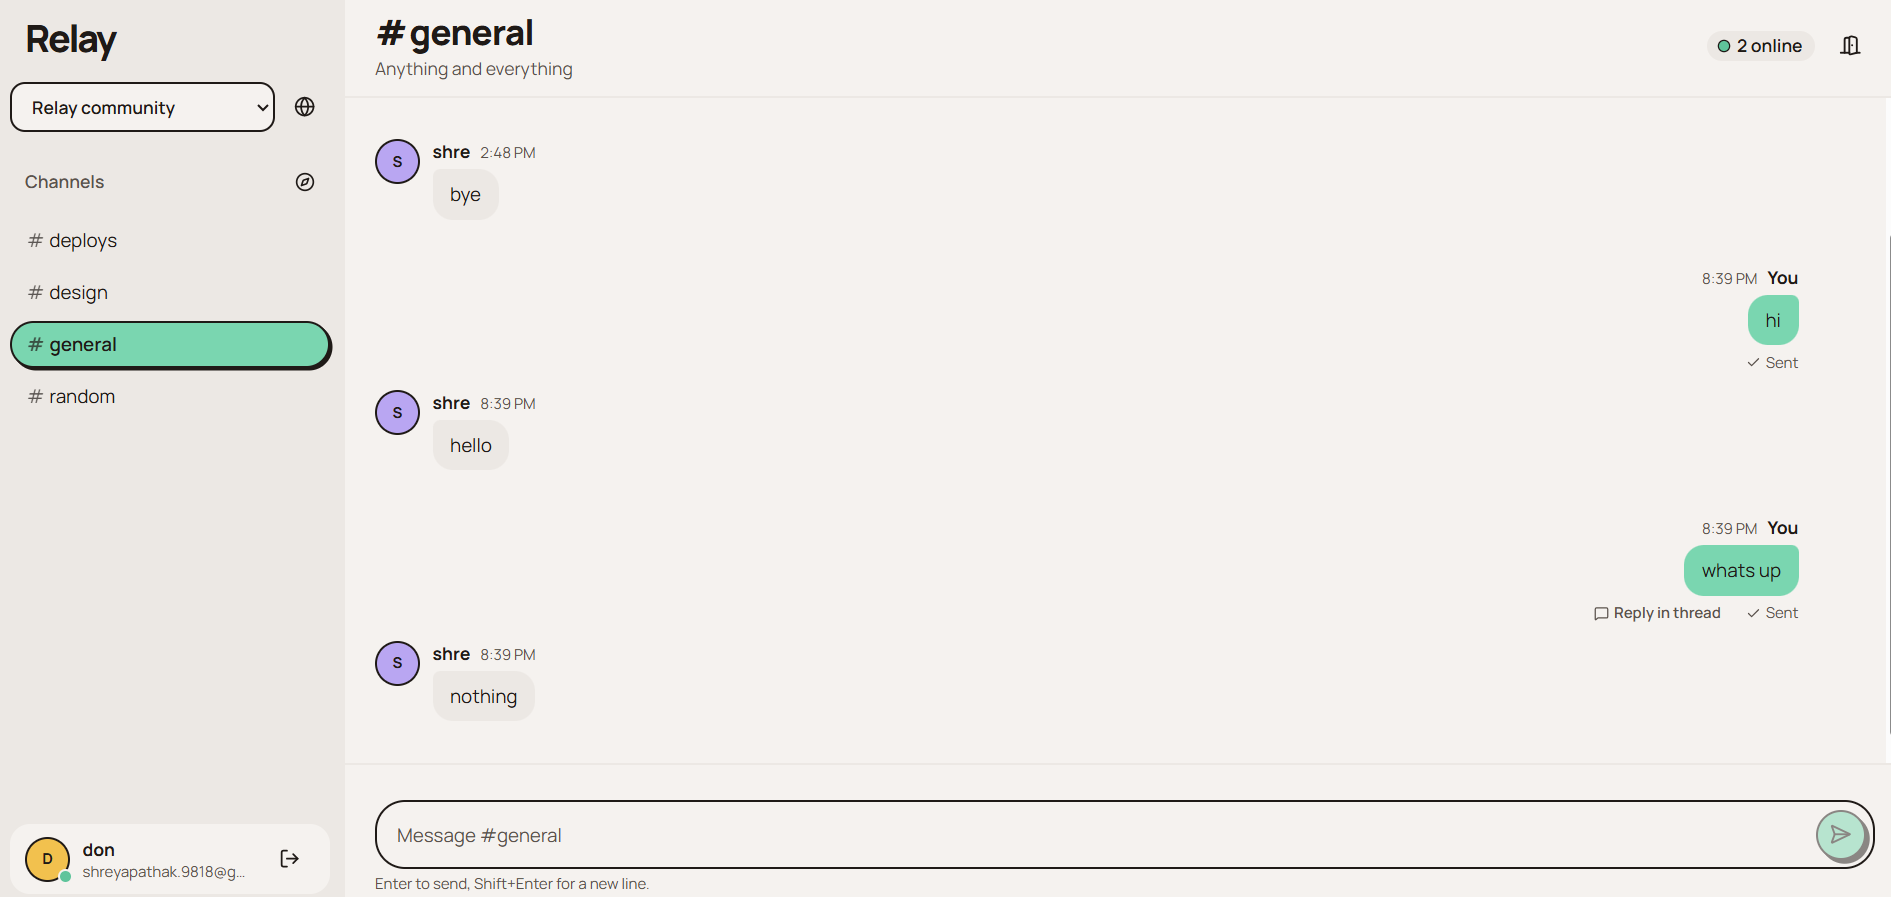
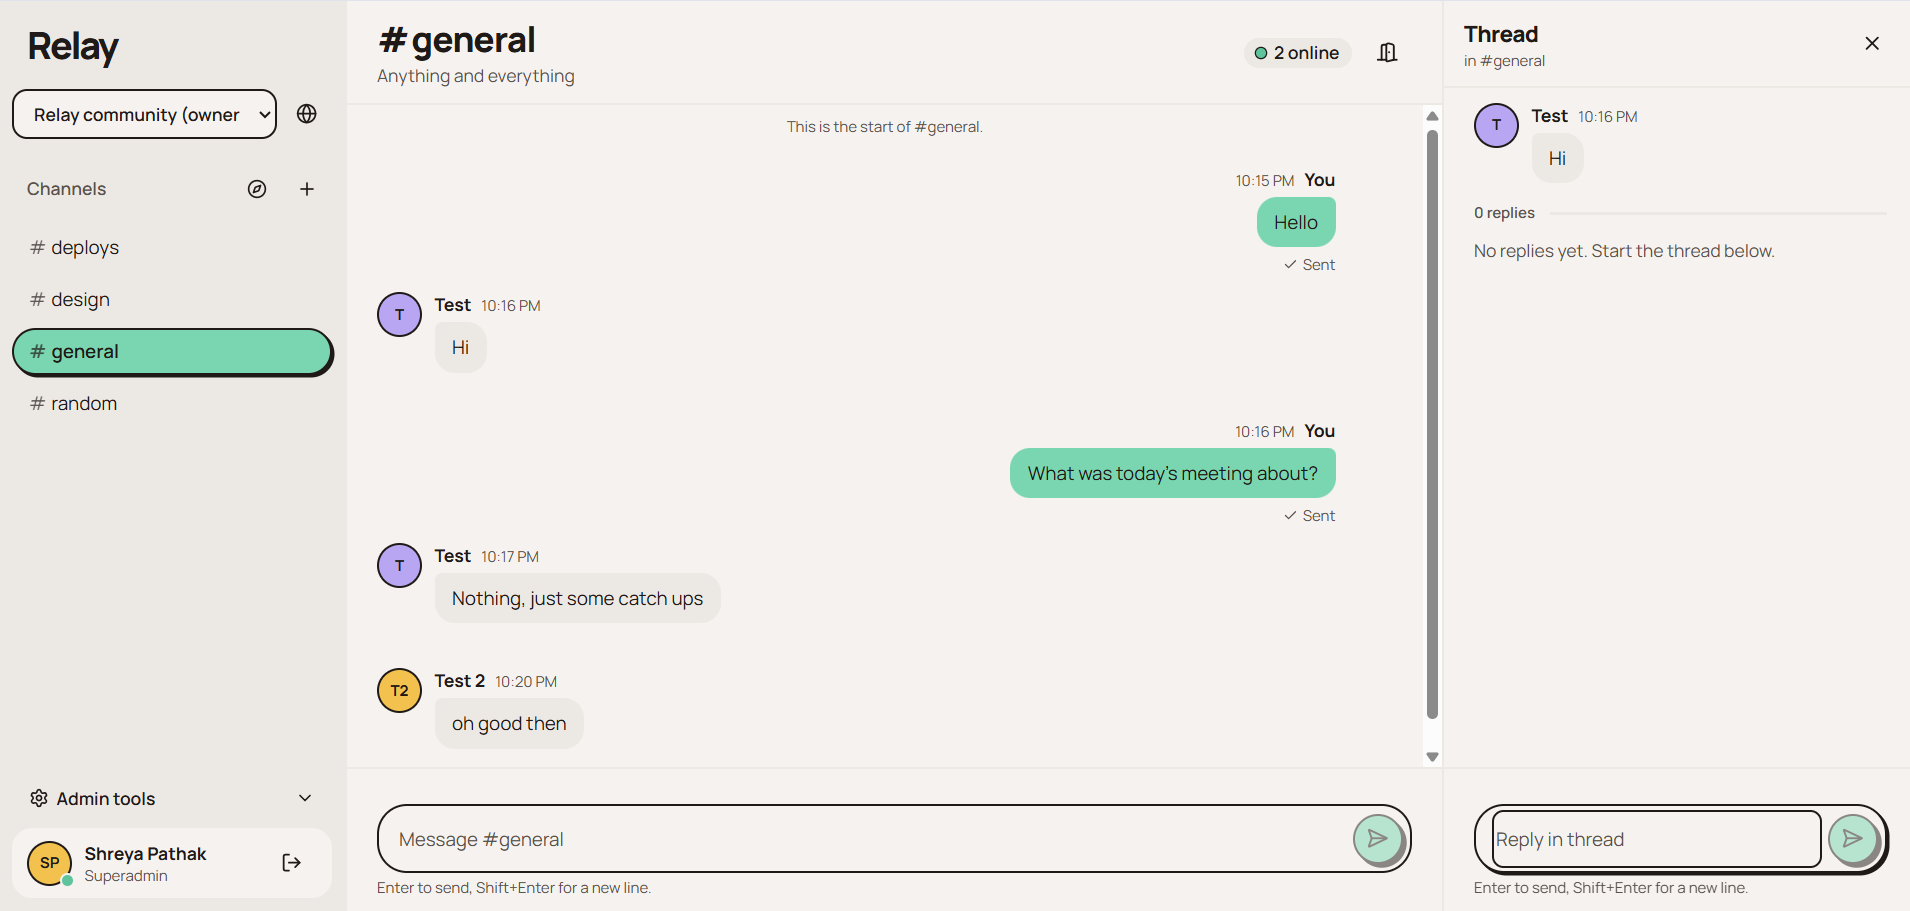
docs: enhance README, architecture, and deployment documentation; update testing instructions

diff --git a/README.md b/README.md
@@ -1,8 +1,9 @@
 # Relay
 
 A self-owned, real-time community chat app with channels, threads, presence, typing indicators,
-reliable delivery and recoverable connections. It's built to run as a personal project on Vercel
-(Hobby) with Neon Postgres and Upstash Redis.
+reliable delivery and recoverable connections.
+
+**Live site:** [getrelaychat.vercel.app](https://getrelaychat.vercel.app/)
 
 ![Relay chat showing the general channel, live messages, online members, and message composer](docs/images/relay-chat.png)
 
@@ -21,45 +22,85 @@ Requires Node 22+, pnpm 9, and Docker (or your own Postgres 16 and Redis).
 pnpm install
 docker compose up -d
 cp .env.example .env
-pnpm db:setup        # migrate + seed #general #design #deploys #random
 pnpm dev             # app http://localhost:5173  (API/WS proxied to :3001)
 ```
 
-`pnpm dev` applies pending database migrations and runs the idempotent seed before starting the servers.
-If database preparation fails, startup stops so the app cannot run against an outdated schema.
+`pnpm dev` applies pending database migrations and seeds the default channels (#general, #design,
+#deploys, #random) before starting the servers. If database preparation fails, startup stops so the
+app can't run against an outdated schema.
 
-Open the app in two browser windows, create two accounts, and chat.
+Open the app in two browser windows, create two accounts, and start chatting.
 
-New accounts can chat immediately in the default public community. Use **Discover communities**
-to join another public community without approval, and the community switcher to move between them.
-Private communities require an invitation. Each community has its own channels, owners and members.
+## Communities and roles
 
-The first account is the **Superadmin** and owns the default community. **Manage communities** lets
-the superadmin create public/private communities, assign or replace their owners, suspend communities,
-and suspend accounts across the platform. An assigned owner must already have an active account.
-Superadmin access does not automatically grant access to private community conversations.
+Relay is organised into **communities**. Each one has its own channels, owners and members. Communities
+are either **public** (anyone can join) or **private** (invitation only).
 
-Community owners use **Create channel**, **Invite people**, and **Members and channels**.
-The **Access** action on a channel adds or removes selected members, including for private channels.
-Blocking a member affects only that community; **Restore** returns their access to its default channels.
-Invitations require a private, single-use link and the matching signed-in email. New users can sign up
-from the link and then accept it. Links expire after seven days; share them manually because no email
-is sent. **New link** replaces a previous invitation link. Previously created pending invitations need
-a new link after the secure-invitation migration; existing memberships and message history are preserved.
+There are three kinds of account:
 
-Run `pnpm db:migrate` before using communities on an existing database. The migration preserves
-channels and history in **Relay community**, preserves its owners and community blocks, and activates
-pending accounts. The earliest existing owner becomes superadmin (or the oldest account if none exists).
-Default channels seed once, so deleting one persists across subsequent deployments.
+| Role | Who | What they can do |
+| --- | --- | --- |
+| **Member** | Everyone | Chat, join public communities, and browse and join channels |
+| **Community owner** | Assigned by the superadmin | Manage channels, members and invitations in their own community |
+| **Superadmin** | The first account created | Manage every community and account on the platform |
 
-The deployment remains Vercel Hobby + Neon Free + Upstash Free, with no new services or paid plans.
-Vercel Hobby is for personal, non-commercial use; free-tier usage limits still apply. See deployment docs.
+### Members
+
+New accounts can chat straight away in the default public community.
+
+- **Discover communities** (the globe icon next to the community switcher) lists public communities
+  you can join without approval.
+- The **community switcher** at the top of the sidebar moves you between communities you've joined.
+- **Browse channels** (the compass icon next to the "Channels" heading) lists the channels in the
+  current community.
+
+### Community owners
+
+Owners get **Create channel** (the **+** icon next to the "Channels" heading) and an **Admin tools**
+section at the bottom of the sidebar, which contains:
+
+- **Invite people:** create, revoke and refresh invitation links. See [Invitations](#invitations).
+- **Members and channels:** search and filter members, then:
+  - **Access** adds or removes people from a channel. Use it to choose who can see a private channel.
+  - **Block** removes a member from this community only. **Restore** gives them back access to the
+    community's default channels.
+  - **Delete** removes a channel along with all its messages and threads.
+
+### Superadmin
+
+The first account to sign up becomes the superadmin and owns the default community. Under
+**Admin tools → Manage communities**, the superadmin can:
+
+- Create public or private communities.
+- Assign or replace a community's owner. The new owner must already have an active account.
+- Suspend and restore communities.
+- Suspend and restore accounts across the whole platform.
+
+> Being superadmin does **not** grant access to conversations in private communities.
+
+### Invitations
+
+Private communities are joined by invitation:
+
+1. An owner creates an invitation for a specific email address in **Invite people**.
+2. The owner sends the link to that person themselves. Relay doesn't send email.
+3. The invited person opens the link while signed in with that email address. If they don't have an
+   account yet, they sign up from the link first and then accept the invitation.
+
+Each link works once and expires after **seven days**. **New link** creates a replacement and stops
+the old link from working.
+
+## Hosting costs
+
+Relay runs entirely on free tiers: Vercel Hobby, Neon Free and Upstash Free, with no extra
+services or paid plans. Vercel Hobby is for personal, non-commercial use, and free-tier usage limits
+still apply. See [Deployment](docs/DEPLOYMENT.md) for details.
 
 ## Scripts
 
 | Command | Does |
 | --- | --- |
-| `pnpm dev` | API/WebSocket server (watch) + Vite dev server |
+| `pnpm dev` | Migrate + seed, then API/WebSocket server (watch) + Vite dev server |
 | `pnpm build` | Build shared, server and web |
 | `pnpm lint` / `pnpm typecheck` | ESLint / TypeScript across the repo |
 | `pnpm test` | Unit tests (no services needed) |
@@ -86,25 +127,18 @@ if any are missing, the app shows a setup screen naming them (values are never s
 
 - [Architecture](docs/ARCHITECTURE.md): message flow, delivery semantics, reconnection, presence, data
   model, Redis budget.
-- [Deployment](docs/DEPLOYMENT.md): Vercel, Neon and Upstash setup, free-tier limits, and what's still
-  unverified.
+- [Deployment](docs/DEPLOYMENT.md): Vercel, Neon and Upstash setup, free-tier limits, and
+  post-deploy checks.
 - [Security](docs/SECURITY.md)
 - [Testing](docs/TESTING.md): how to run each suite and the recorded results.
 
 ## Known limitations
 
-- **Vercel deployment not yet tested end to end.** The `api/` contract matches Vercel's current docs.
-  Monorepo bundling, the REST rewrite and real latency still need a first deploy to confirm; see
-  `docs/DEPLOYMENT.md`.
 - **Connection lifetime:** Hobby closes every WebSocket within 300 s. Relay reconnects
   make-before-break and resyncs by sequence number, but every connection still churns every few
   minutes.
 - **Rate limits are per function instance,** not global. Use Vercel Firewall rules for global limits.
-- **Performance targets:** the brief's targets (p95 < 80 ms, 50k messages/min, 5,000+ users) are
-  unmeasured on Vercel, and p95 latency missed 80 ms in the local single-CPU test.
-- **Missing features:** no message editing or deletion, no file uploads, and no Storybook
-  (components live in `apps/web/src/components/ui`).
-- **Avatars:** new users get lavender or amber avatars only.
+- **Missing features:** no message editing or deletion, no file uploads, and no Storybook.
 
 ## License
 

diff --git a/docs/DEPLOYMENT.md b/docs/DEPLOYMENT.md
@@ -18,19 +18,20 @@ Sources: [Vercel WebSockets](https://vercel.com/docs/functions/websockets),
 **Not promised:** that the app stays free forever, or that no payment method will ever be requested.
 If Relay ever charges users or serves a business, Vercel requires a paid plan.
 
-## Communities on the existing free deployment
+All communities share one deployment, one Neon database and one Upstash bus, so the limits above
+apply to their combined usage.
 
-Communities share the same deployment, Neon database and Upstash bus. No paid plan, service or
-per-community deployment is added. This remains a personal/non-commercial pilot under Hobby's terms.
-Public signups and community joins require no owner approval; private spaces are invitation-only.
-The first account is superadmin. On upgrade, the earliest existing owner becomes superadmin, and
-existing channels/history move into the default community without changing their IDs.
+## Upgrading an existing deployment
 
-Apply migrations before starting the updated server (`pnpm db:migrate`, or the existing Vercel build
-command). Only the superadmin can create communities and assign owners; ownership is community-scoped.
-Monitor aggregate database storage, Redis commands and function usage across all communities.
-Migration `0004` adds secure invitation tokens. Generate new links for pending invitations created
-before that migration. Keep the existing production database; do not run test reset scripts against it.
+Apply migrations before starting the updated server (`pnpm db:migrate`, or the Vercel build command,
+which runs it). On a database from before communities existed:
+
+- existing channels and history move into the default community without changing their IDs;
+- the earliest existing owner becomes superadmin (or the oldest account, if there are no owners);
+- migration `0004` adds secure invitation tokens, so pending invitations created before it need a
+  **New link**.
+
+Keep the existing production database, and never run the test reset scripts against it.
 
 ## 1. Neon
 
@@ -85,21 +86,21 @@ the variable names in `.env.example`, so map the injected values onto those name
 4. Run the load test against the deployment (see `docs/TESTING.md`). Raise `REGISTER_LIMIT_PER_HOUR`
    for the run, then put it back.
 
-## Not yet verified on a real deployment
+## What the live deployment confirms
 
-The exact Vercel API entry points were smoke-tested locally with rewrites, auth cookies and WebSocket
-message acknowledgements. The deployment command, migrations and seed were tested on a disposable
-database. A real Vercel, Neon and Upstash deployment has not been exercised by this QA run.
+On 2026-10-31, `https://getrelaychat.vercel.app/api/v1/ready` returned
+`{"ok":true,"database":true,"bus":true}`. That confirms Vercel bundles `@relay/server` into the
+`api/*.ts` functions, the `/api/v1/:path*` rewrite reaches `api/server.ts`, and Neon and Upstash are
+reachable.
 
-- **Monorepo bundling:** Vercel tracing `@relay/server` (a pnpm workspace package compiled to `dist/`)
-  into the `api/*.ts` function bundles.
-- **REST rewrite:** whether Vercel keeps the original path in `req.url` for the `/api/v1/:path*` →
-  `/api/server?__path=:path*` rewrite. The server handles both cases.
-- **WebSocket upgrade:** the handshake reaching `api/ws.ts` with cookies and `Origin` intact.
+Still unmeasured:
+
+- **WebSocket upgrade:** the handshake reaching `api/ws.ts` with cookies and `Origin` intact. Step 3
+  of [Verify](#4-verify) checks it.
 - **Real latency and usage:** latency on Vercel and real Upstash command consumption.
 
-If a deploy fails at one of these, the function logs on Vercel will name the problem.
-`api/server.ts` and `api/ws.ts` are thin, so swapping in a different bundling approach is a small change.
+If a deploy fails, the function logs on Vercel will name the problem. `api/server.ts` and `api/ws.ts`
+are thin, so swapping in a different bundling approach is a small change.
 
 ## Local development
 
@@ -107,8 +108,7 @@ If a deploy fails at one of these, the function logs on Vercel will name the pro
 pnpm install
 docker compose up -d                    # Postgres 16 + Redis 7 (also creates relay_test, relay_e2e)
 cp .env.example .env
-pnpm db:setup                           # migrations + seed
-pnpm dev                                # API + WS on :3001, app on http://localhost:5173
+pnpm dev                                # migrations + seed, then API + WS on :3001, app on :5173
 ```
 
 Without Docker: point `DATABASE_URL` at any Postgres 16 and either run Redis locally or set

diff --git a/docs/ARCHITECTURE.md b/docs/ARCHITECTURE.md
@@ -7,12 +7,12 @@ truth for every message; Redis only moves events between function instances and 
  Browser (React)                    Vercel                                 Data
  ───────────────        ──────────────────────────────────         ─────────────────
  RelayConnection ─wss─▶ api/ws.ts      (Gateway, many instances) ─▶ Neon Postgres
-   (make-before-break)     │  validate → lock room row →             users, sessions, rooms,
- ChatController            │  idempotency check → seq+1 →            memberships, messages
+   (make-before-break)     │  validate → lock room row →             users, sessions, communities,
+ ChatController            │  idempotency check → seq+1 →            rooms, memberships, messages
    (optimistic, seq        │  insert → COMMIT                        (room.last_seq counter)
     tracking, gap fill)    │  then PUBLISH room:{id} ───────────▶ Upstash Redis
                            │  ◀── SUBSCRIBE room:{id} (refcounted)    pub/sub + presence ZSET
- fetch /api/v1/* ──────▶ api/server.ts  (REST: auth, rooms, history, threads, health)
+ fetch /api/v1/* ──────▶ api/server.ts  (REST: auth, communities, admin, rooms, history, threads, health)
 ```
 
 ## Message flow
@@ -91,7 +91,7 @@ commands. The Upstash pages checked don't say whether each *delivered* pub/sub m
 | `sessions` | Hashed refresh tokens |
 | `communities` | Public/private communities, default community, suspension |
 | `community_memberships` | Community-scoped owner/member roles and active/blocked access |
-| `invitations` | Community + email invitations for accounts not yet registered |
+| `invitations` | One per community + email: hashed single-use token, 7-day expiry |
 | `rooms` | `last_seq` counter, `is_private`, `is_default` |
 | `memberships` | Primary key on room + user |
 | `messages` | `seq`, `client_id`, `parent_id`, `reply_count` |
@@ -110,8 +110,7 @@ public community immediately, and other public communities can be joined without
 owners manage channels and invitations; the platform superadmin creates communities and assigns owners.
 Community and channel access are enforced for HTTP history, WebSocket subscriptions, sends, typing,
 and live delivery. Presence is filtered by the selected community. A `community.changed` bus event
-refreshes affected members' community/channel lists without polling. None of these features require
-another deployment, database or paid service per community.
+refreshes affected members' community/channel lists without polling.
 
 ## Code map
 

diff --git a/docs/TESTING.md b/docs/TESTING.md
@@ -69,25 +69,19 @@ Postgres, Redis and k6.
 contention: k6 parsed about 1,270 frames per second on the same single core as both servers and both
 databases. This number says nothing either way about Vercel. The brief's other figures (50k
 messages/min, 5,000+ concurrent users) were not tested. They describe the full multi-node architecture,
-not the Hobby variant. No app rating exists yet.
+not the Hobby variant.
 
-## Community feature verification
+## Running browser tests in isolation
 
-Community feature verification (2026-10-31): production build, lint and TypeScript checks passed;
-54 unit tests and 42 integration tests passed. Integration tests used disposable local PostgreSQL 18
-and Redis services on separate ports. Browser coverage passed in installed Chrome: the nine existing
-desktop/mobile chat scenarios plus a new superadmin/community/private-channel access scenario.
-The optional screenshot-only suite was skipped; screenshots from the new scenario were visually reviewed.
-A separate legacy-data migration check preserved messages, owners, invitations and community blocks,
-and activated pending accounts. These are local results, not deployed free-tier capacity measurements.
-
-For isolated browser runs, set `E2E_DATABASE_URL`, `E2E_REDIS_URL`, `E2E_API_PORT` and `E2E_PORT`.
-Set `E2E_BROWSER_CHANNEL=chrome` to use installed Chrome instead of Playwright's bundled Chromium.
+To run the browser tests alongside a running `pnpm dev`, or against a separate database, set
+`E2E_DATABASE_URL`, `E2E_REDIS_URL`, `E2E_API_PORT` and `E2E_PORT`. To use an installed browser instead
+of Playwright's bundled Chromium, set `E2E_BROWSER_CHANNEL=chrome` (or `msedge`). Global setup calls
+`psql`, so it must be on your `PATH`.
 
 ## Not run
 
-- Any test against a real Vercel, Neon or Upstash deployment (no credentials were available). See the
-  "Not yet verified" list in `DEPLOYMENT.md`.
+- The automated suites against the live Vercel, Neon and Upstash deployment. See "What the live
+  deployment confirms" in `DEPLOYMENT.md`.
 - A load test on Vercel. Before running one, raise `REGISTER_LIMIT_PER_HOUR`, start at around 100
   users, and watch Upstash's command count, since a 2-minute run at 100 users uses thousands of
   commands.
